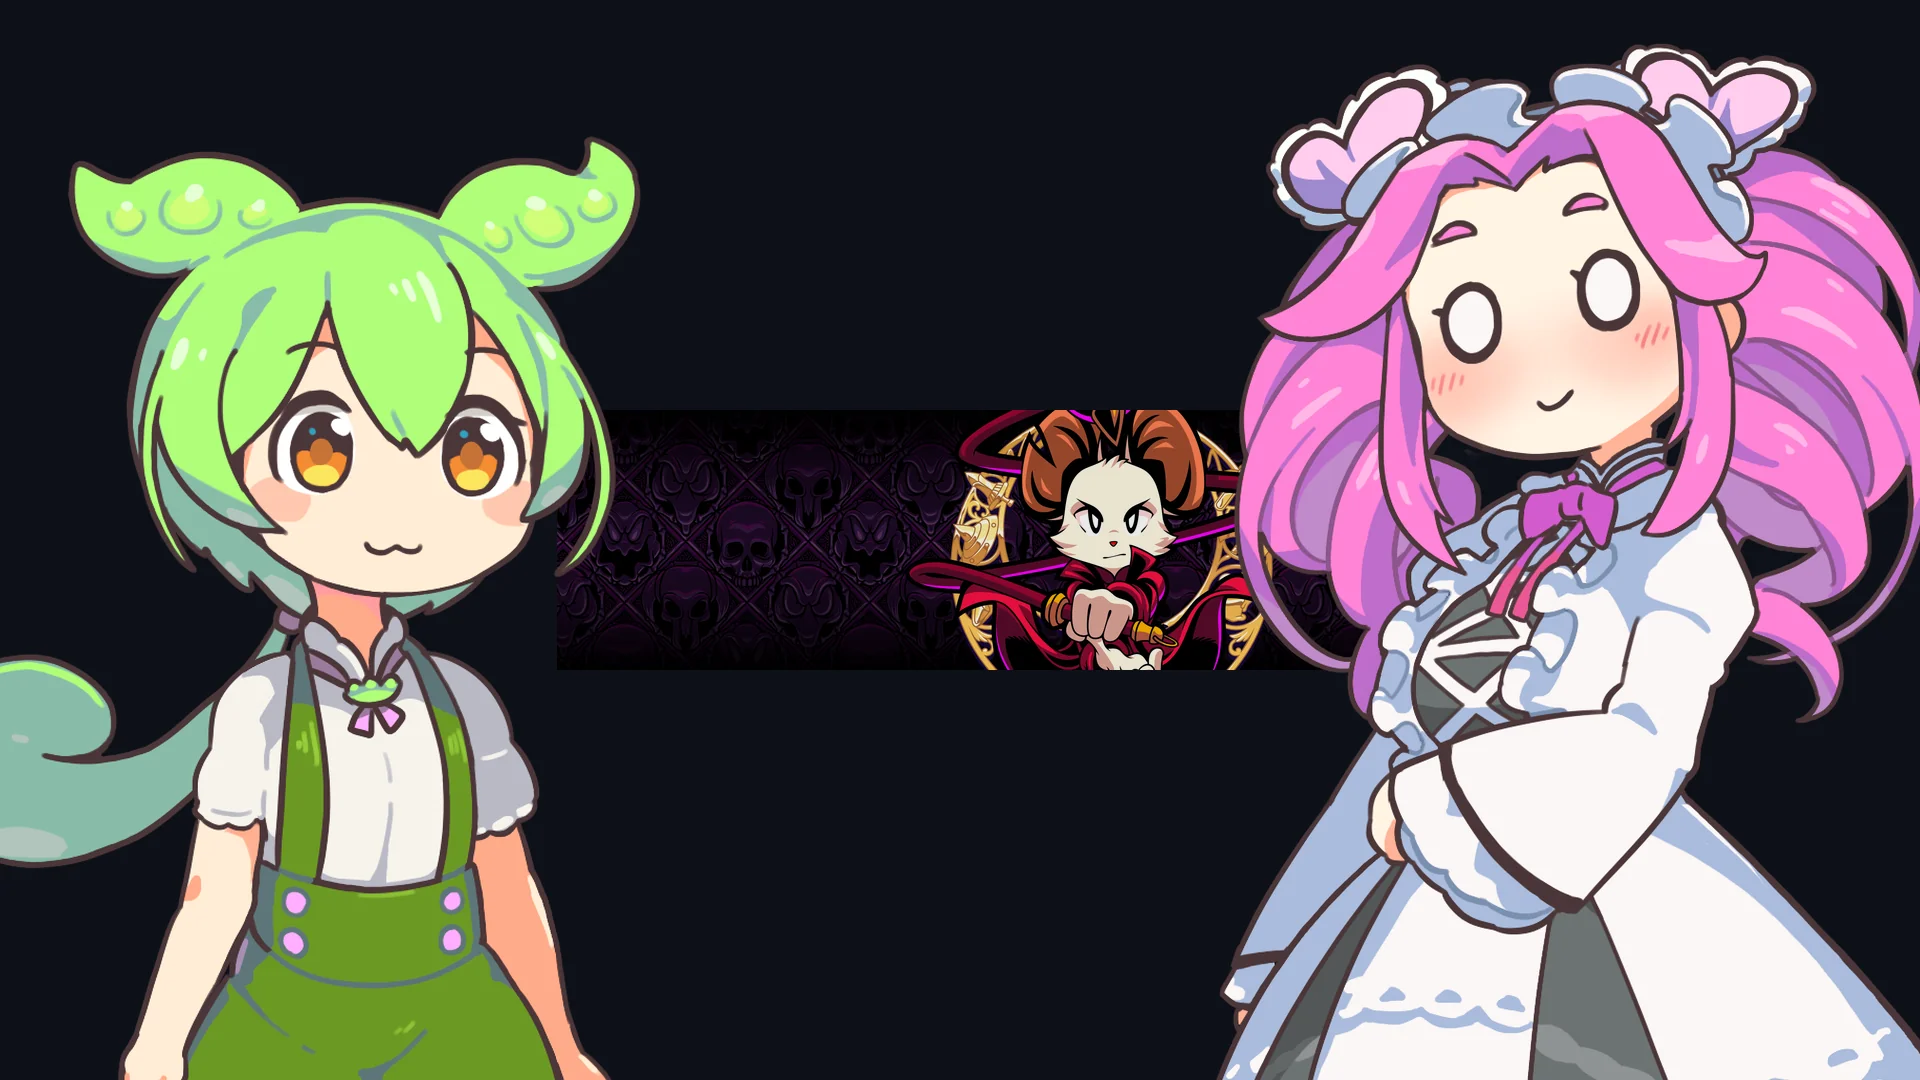
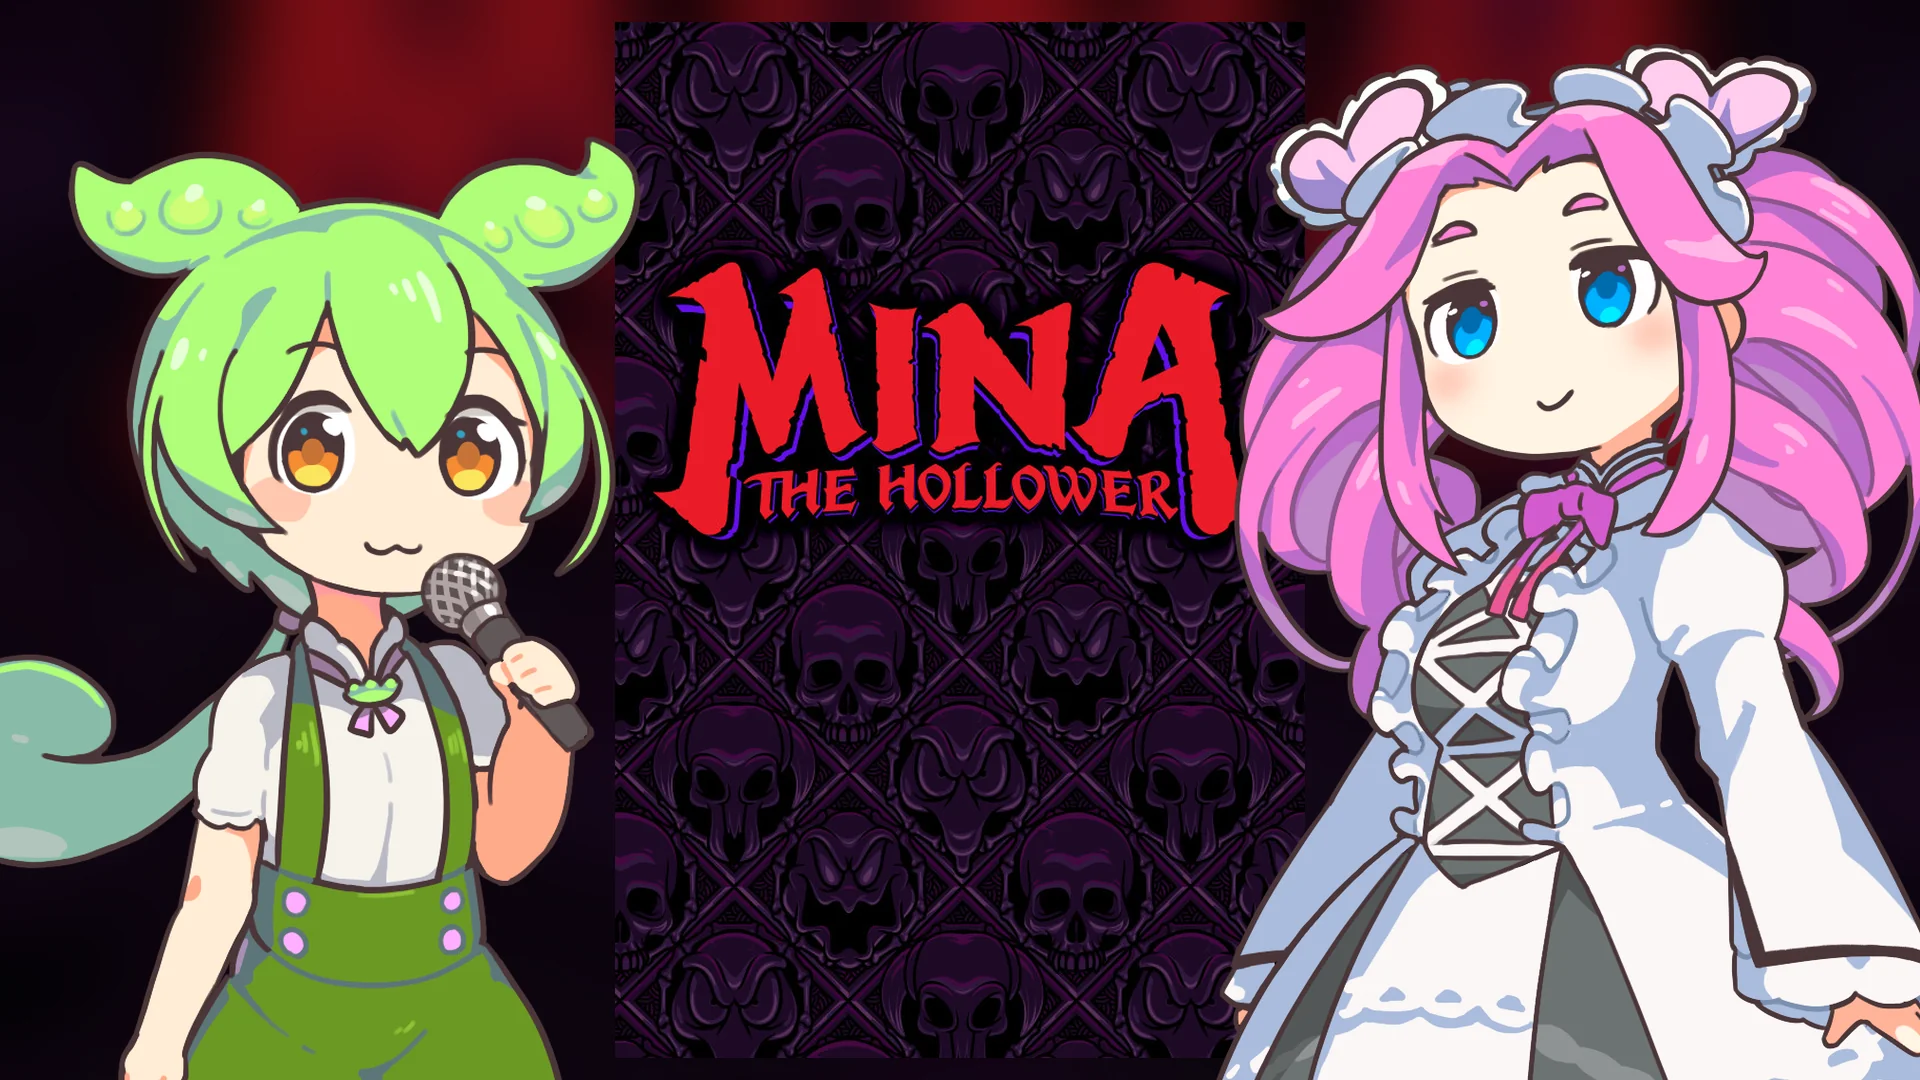
Auto: radio update 2026-05-18 23:13

diff --git a/public/sw.js b/public/sw.js
@@ -2,7 +2,7 @@
 // シェル (HTML/CSS/JS) は network-first で常に最新を取りに行く。
 // 立ち絵 PNG・アイコン・MP3 は cache-first で一度落としたら永続的にローカル参照。
 
-const CACHE_VERSION = 'v7-2026-05-18-indie-chars-compose'
+const CACHE_VERSION = 'v8-2026-05-18-indie-blurred-bg'
 const SHELL_CACHE = `shell-${CACHE_VERSION}`
 const ASSET_CACHE = `assets-${CACHE_VERSION}`
 
